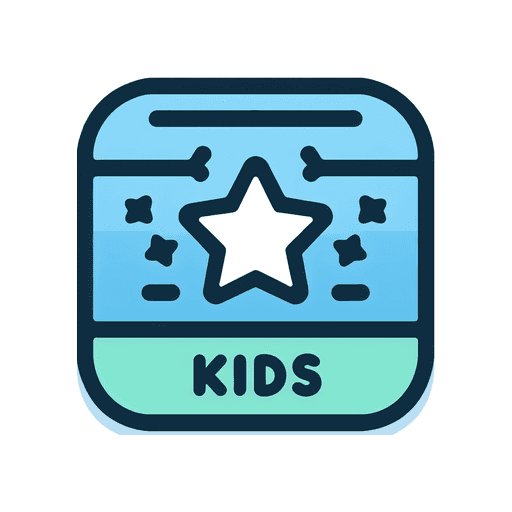
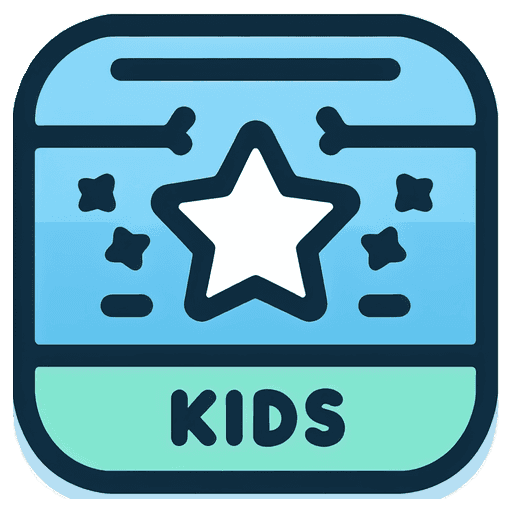
feat: Update date handling logic and add toast feedback
- Update image file `maskable-icon-512x512.png`
- Implement state management for date in `home` module
- Enhance date handling logic with `CalendarDate` from `@internationalized/date`
- Improve user experience with loading toast when fetching data

diff --git a/src/lib/home/user.svelte b/src/lib/home/user.svelte
@@ -6,16 +6,21 @@
   import Star from "lucide-svelte/icons/star";
   import Use from "lucide-svelte/icons/star-off";
   import Trash from "lucide-svelte/icons/trash";
+  import { toast } from "svelte-sonner";
+
   import {
     today,
     getLocalTimeZone,
     type DateValue,
     parseDate,
+    CalendarDate,
   } from "@internationalized/date";
   import { goto } from "$app/navigation";
 
-  let value = today(getLocalTimeZone());
+  export let value: CalendarDate;
   export let rewards: Reward[];
+  export let setDate: (date: DateValue) => void;
+
   $: currentRewards =
     rewards.filter((reward) => {
       if (!value) return false;
@@ -49,7 +54,7 @@
 
   const handleDateChange = (date?: DateValue) => {
     if (!date) return;
-    value = parseDate(date.toString());
+    setDate(date);
   };
 </script>
 
@@ -61,7 +66,16 @@
     onValueChange={handleDateChange}
     onPlaceholderChange={(date) => {
       if (!date) return;
-      goto(`?date=${date.year}-${date.month}-${date.day}`);
+      if (date.year === value.year && date.month === value.month) return;
+
+      const newDate = `${date.year}-${date.month}-${value.day}`;
+
+      const t = toast.loading("Loading...");
+      setDate(new CalendarDate(date.year, date.month, value.day));
+
+      goto(`?date=${newDate}`).then(() => {
+        toast.dismiss(t);
+      });
     }}
     pagedNavigation
   />

diff --git a/src/lib/home/index.svelte b/src/lib/home/index.svelte
@@ -4,10 +4,18 @@
     AvatarFallback,
     Avatar,
   } from "$lib/components/ui/avatar";
+  import { page } from "$app/stores";
+
   import * as Tabs from "$lib/components/ui/tabs";
   import StarIcon from "../star.svelte";
   import UserPanel from "./user.svelte";
   import type { User, Reward } from "../../database/type";
+  import {
+    type DateValue,
+    parseDate,
+    CalendarDate,
+  } from "@internationalized/date";
+
   export let users: User[];
   export let rewards: Reward[];
   /**
@@ -18,6 +26,13 @@
   console.log("cost", duration);
   let currentUser = users?.[0]?.name || "";
 
+  // get query date from url
+  const date = new Date($page.url.searchParams.get("date") || Date.now());
+  $: selectedDate = new CalendarDate(
+    date.getFullYear(),
+    date.getMonth() + 1,
+    date.getDate(),
+  );
   $: scores = users.map((user) => {
     return {
       id: user.id,
@@ -26,7 +41,9 @@
     };
   });
 
-  // console.log(rewards, users, scores);
+  const setDate = (date: DateValue) => {
+    selectedDate = parseDate(date.toString());
+  };
 </script>
 
 <div class="w-full max-w-xl p-4">
@@ -73,6 +90,8 @@
       <Tabs.Content value={user.name}>
         <UserPanel
           rewards={rewards.filter((o) => o.user_id === user.id)}
+          value={selectedDate}
+          {setDate}
           id={user.id}
         />
       </Tabs.Content>
